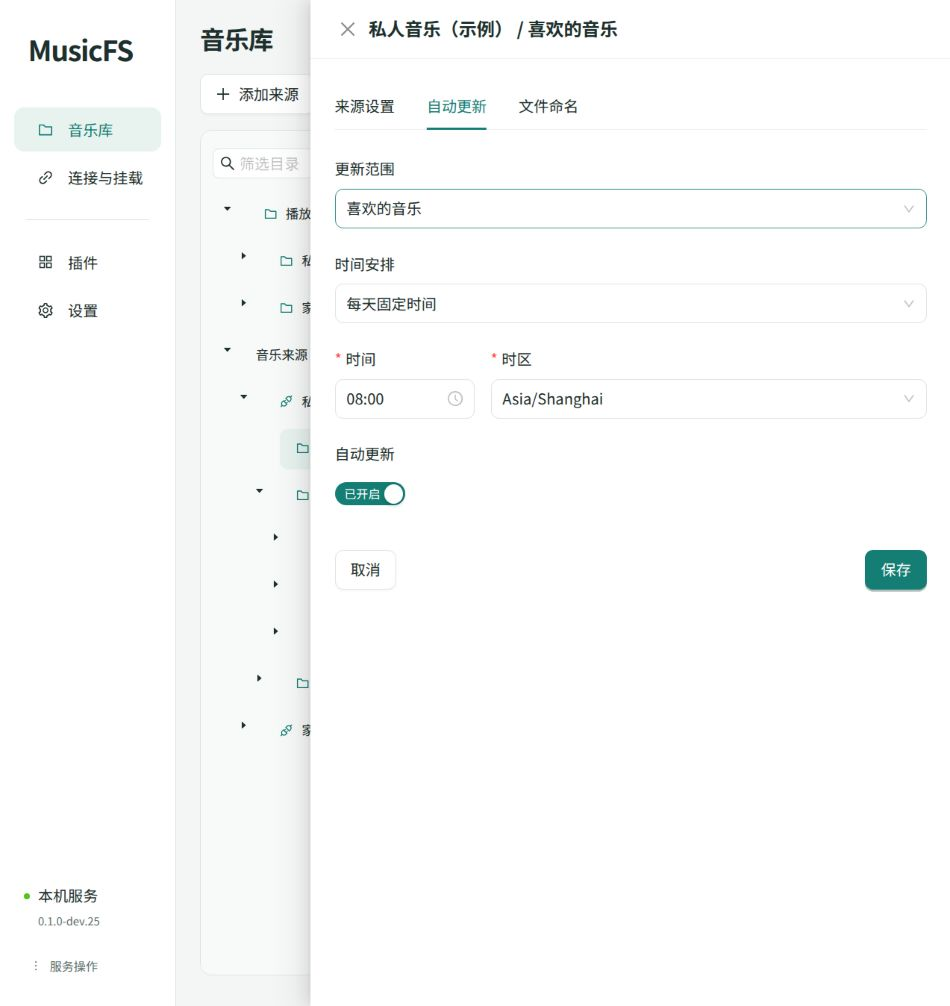
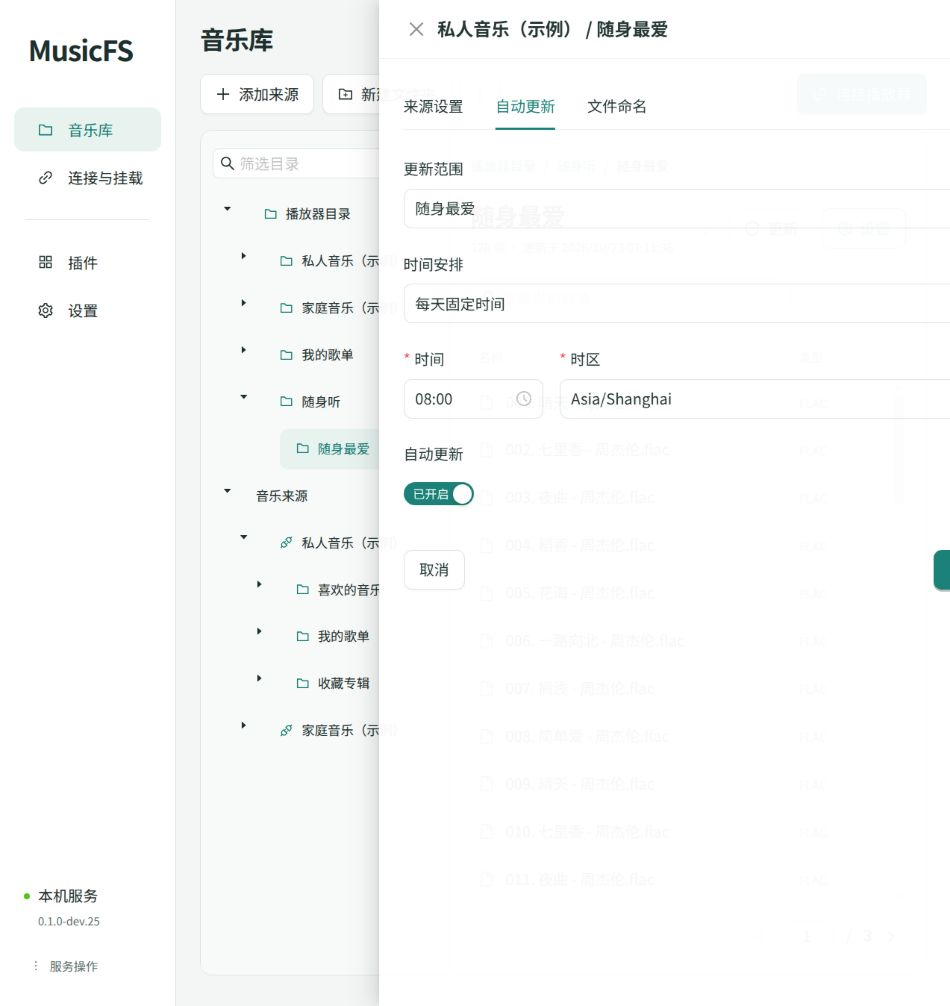
docs: document unified browsing and directory editing

diff --git a/docs/architecture/web-ui.md b/docs/architecture/web-ui.md
@@ -12,9 +12,9 @@ Design Read：保留视觉体系、重构信息架构；视觉变化 3、动效 
 
 | 方向 | 收益与代价 | 决定 |
 |---|---|---|
-| 保留两个页面，改善互相跳转 | 改动小，但浏览内容、管理来源和导出布局仍反复切换 | 不采用 |
+| 浏览与整理分成两个页面或模式 | 复用旧代码容易，但同一目录要切换界面才能编辑，操作与内容分离 | 不采用 |
 | 只保留播放器目录树，将来源设置挂在目录上 | 表面最少，但无法管理未导出的来源，也容易混淆移除入口与删除账号 | 不采用 |
-| 一个工作区，树中区分来源与播放器目录 | 一处浏览与配置，保留自定义导出布局和全部来源的独立身份 | 采用 |
+| 同一棵树随时浏览和编辑 | 目录直接改名、拖动和移除，右侧持续显示内容；来源与导出布局仍各有身份 | 采用 |
 
 参考 [VS Code](https://code.visualstudio.com/docs/editing/getting-started/userinterface) 的左侧资源树与主内容分工、[DBeaver](https://github.com/dbeaver/dbeaver/wiki/database-navigator) 的连接/子对象层级，以及 [Nextcloud](https://docs.nextcloud.com/server/stable/user_manual/en/files/access_webgui.html) 的内容列表与详情侧栏。借鉴其交互分工，不复制命令面板、多编辑器、版本历史等与 MusicFS 当前任务无关的能力。
 
@@ -34,12 +34,14 @@ flowchart LR
   H --> I[音乐库：树定位 / 主区浏览]
   I --> J[挂载到电脑]
   I --> K[复制 WebDAV 连接]
-  I -. 可选 .-> L[整理目录并保存]
+  I --> L[原位改名 / 移动 / 添加内容]
+  L --> M[继续浏览并保存目录]
+  M --> I
 ```
 
 | 页面 | 默认呈现 | 按需操作 |
 |---|---|---|
-| 音乐库 | 来源与播放器目录树、当前目录文件 | 上下文设置侧栏、登录、更新、整理目录 |
+| 音乐库 | 来源与播放器目录树、当前目录文件 | 原位目录编辑、批量添加、上下文设置、登录与更新 |
 | 连接与挂载 | 桌面默认挂载，Worker 默认 WebDAV | 远程挂载、缓存、Windows 原生映射 |
 | 插件 | 名称、版本、添加来源 | 更新、移除、技术信息 |
 | 设置 | 登录账号；桌面另含启动、自动挂载与局域网 | 修改密码、两种启动的页面行为 |
@@ -48,7 +50,9 @@ flowchart LR
 
 树中“播放器目录”对应对外路径，“音乐来源”对应完整来源内容。来源不在导出布局中也可浏览；展开只读取当前层，歌曲留在主列表，不把数千文件塞进树。树与主区使用同一 Query key；普通浏览不逐入口查询统计，也不读取音频属性。URL 与浏览器历史保存当前位置，前进、后退和重载可回到目录；旧 `?page=sources` 仍进入音乐库。
 
-默认布局可直接浏览。整理在同一入口切换为左侧目录树、右侧内容选择，窄屏使用两栏切换；批量添加、拖动、原位改名、撤销和统一保存保留。未保存草稿在页面切换时保留；保存后才改变对外目录，并回到新布局根目录。完整名称和顺序由后台提供，主列表每页50项；名称筛选只处理当前目录，不发送额外请求。
+浏览和整理使用同一棵树及同一个主列表，不设整理页面或编辑模式。新建后在树上输入名称；树与主列表共用目录菜单，提供改名、移动、排序和移除。来源根目录的主列表可直接多选入口，添加时只选择目标文件夹；单个来源入口也可直接添加。来源的内部目录和歌曲保持只读，不伪装成可编辑导出节点。
+
+有修改时显示保存、撤销、重做和放弃操作；未保存草稿在主页面切换时保留，保存后才改变播放器目录。保存保持当前浏览位置，移除当前节点则回到上级。窄屏将同一棵树放入抽屉，新建和改名时直接展示对应输入，不再切换两种整理面板。主列表每页50项；名称筛选只处理当前目录，不发送额外请求。
 
 来源/目录“设置”共用一个侧栏，页签为来源设置、自动更新和文件命名。字段和预览内容与外层呈现分离；同一份规则表单也用于设置页。侧栏不遮罩整个工作区，选择另一目录时关闭旧上下文；新增来源和扫码登录保留聚焦窗口，移除来源只保留一次确认。命名未变化的条目只显示一次，缺字段以预览说明呈现，不额外加警告块。
 
@@ -58,7 +62,7 @@ flowchart LR
 
 Windows 挂载可留空位置，复用既有自动盘符能力；其他系统填写挂载目录。每个挂载项直接显示自动挂载开关，手动卸载只影响本次。低频操作放入更多菜单，缓存统计与设置使用独立弹窗。局域网集中在设置中，Windows 原生映射保留在 WebDAV 连接下。
 
-## 目录整理
+## 同一工作区中的目录草稿
 
 ```mermaid
 flowchart LR
@@ -69,22 +73,28 @@ flowchart LR
   E --> C
   C --> F[撤销 / 重做]
   F --> C
+  C --> V[主区继续浏览当前内容]
   C -->|保存与修订检查| G[一次发布新目录]
   G --> H[播放器 / WebDAV / 挂载]
 ```
 
-`GET /api/layout/default` 返回当前自动目录的可编辑副本，不保存布局。名称直接使用核心已生成的导出名称，因此同名消歧和可移植路径不由前端重写；每个入口仍有独立节点身份。只读取来源的内容入口，不递归读取歌曲或音频信息。尚无快照时复用既有持久刷新机制。
+`GET /api/layout/default` 返回当前自动目录的可编辑副本，不保存布局。名称直接使用核心已生成的导出名称，因此同名消歧和可移植路径不由前端重写；每个入口仍有独立节点身份，自动目录按来源及入口身份稳定生成，重新读取不会重新分配。只读取来源的内容入口，不递归读取歌曲或音频信息。尚无快照时复用既有持久刷新机制。
 
-树操作只改浏览器草稿。一次批量添加保留来源清单顺序，同一内容可出现在不同文件夹中。查找保留上级上下文，移动目标排除自身及下级。当前整理会话保留最近 50 步撤销记录；跨页面保留草稿，关闭页面不额外建立一份前端持久目录库。
+树操作只改浏览器草稿。一次批量添加保留来源清单顺序，同一内容可出现在不同文件夹中。查找保留上级上下文，移动目标排除自身及下级。当前工作区保留最近 50 步撤销记录；跨页面保留草稿，关闭页面不额外建立一份前端持久目录库。
+
+草稿导航使用节点身份，来源内容使用 `instanceId/sourceId/directoryRef`。虚拟文件夹直接列出草稿子项；来源别名先定位入口，再读取同一来源快照，因此未保存的改名、移动不依赖尚不存在的导出路径。嵌套浏览的面包屑随草稿重新定位，已发布路径由核心继续负责。
+
+来源分支与多个布局别名共用来源快照的 Query key；导航目标和面包屑由每个观察者的 `select` 生成，不把某个别名的位置写进共享数据。自动目录查询归入音乐库失效范围，来源更新后会刷新默认树；已有草稿不会被后台刷新替换。
 
 ## 模块和状态
 
 `src/web` 仅依赖浏览器库、公开插件 DTO 与管理合同，不导入核心或宿主。
 
 - `shell.tsx` 管浏览器会话、四个主入口、退出与跨页面布局草稿；`workspace-navigation.ts` 保留页面 URL 和浏览器前进后退。
-- `music-workspace.tsx` 组织音乐库与来源操作；`music-navigation.ts` 区分来源引用与导出路径、保存浏览位置、定义共用查询；`music-tree.tsx` 管展开和筛选，`music-browser.tsx` 管主列表与刷新。
+- `music-workspace.tsx` 装配树、主区和上下文操作；`music-navigation.ts` 管节点/来源定位、面包屑与浏览历史；`music-listing.ts` 解析草稿节点并共享来源查询，虚拟文件夹不发送目录请求。
+- `music-tree.tsx` 管展开、筛选及拖放；`music-browser.tsx` 管主列表、批量选择与刷新。两处复用同一份目录操作。
 - `music-inspector.tsx` 拥有设置侧栏；`source-editor.tsx`、`update-rule-editor.tsx`、`file-naming.tsx` 各管对应表单与数据。`authentication.tsx` 保留通用登录状态机。
-- `layout-editor.tsx` 管草稿、撤销/重做和保存；`layout-sources.tsx` 读取入口并批量选择；`layout-tree.tsx` 负责改名、拖动和显式移动；`layout-draft.ts` 保存纯树操作规则。
+- `use-library-layout.ts` 管草稿、撤销/重做和保存；`use-layout-actions.tsx` 共用编辑命令；`music-layout-controls.tsx` 只负责原位改名与目标选择；`layout-draft.ts` 保存纯树操作。原独立编辑页、第二棵编辑树和内容选择面板已移除。
 - `plugins.tsx` 管理安装后的列表和后台变更；`plugin-installer.tsx` 管理包选择、检查和提交。
 - `connection.tsx` 区分挂载与 DAV；`dav-connection.tsx` 管理读取凭据与播放器导入二维码；`mounts.tsx` 管理挂载；`cache-settings.tsx` 复用缓存表单和统计展示；网络与 HTTPS 保留各自模块。
 - `settings.tsx` 管理账号和桌面偏好；`phone-access.tsx` 展示已启用的局域网地址与一次性二维码。

diff --git a/docs/verification/music-workspace.md b/docs/verification/music-workspace.md
@@ -1,29 +1,31 @@
-# 音乐库树形工作区核对
+# 音乐库统一工作区核对
 
-2026-10-23，`0.1.0-dev.25` 源码预览。设计与取舍见[共用管理界面](../architecture/web-ui.md)。本轮不重打发行包，已发布的 dev.24 归档保留原样。
+2026-10-23，`0.1.0-dev.25` 源码预览。浏览与目录编辑使用同一棵树、同一个主列表；设计与模块分工见[共用管理界面](../architecture/web-ui.md)。已发布的 dev.24 归档保持原样。
 
 ## 内置浏览器
 
-WSL 本地服务 `http://127.0.0.1:8787/`，使用独立 SQLite 演示数据：两个明确标为示例的来源、入口与嵌套目录，以及128个演示文件。未使用真实音乐账号或读取音频。
+WSL 本地服务 `http://127.0.0.1:8787/`，使用独立 SQLite 演示数据：两个明确标为示例的来源、入口与嵌套目录，以及128个演示文件。使用实际管理接口和库视图，不连接真实音乐平台或读取音频。
 
 | 用户路径 | 结果 |
 |---|---|
-| 来源树 → 喜欢的音乐 | 在主区直接看到文件，不再转到另一页面；树中不展开歌曲 |
-| 歌曲搜索、返回、重载 | 名称筛选保留顺序；浏览器返回和重载保留选中目录 |
-| 来源/目录设置 | 同一侧栏切换来源设置、自动更新、文件命名；切换目录关闭旧上下文 |
-| 命名预览 | 正确使用当前目录，未变化名称不重复显示，不增加警告块 |
-| 新增来源 | 侧栏直接显示名称与插件配置，关闭可回到原目录 |
-| 目录整理 | 左树右内容；新建文件夹、原位改名和连续撤销通过，撤销回原值后保存按钮恢复禁用 |
-| 约390px小屏 | 目录抽屉可选中并自动关闭；设置页签和时间/时区表单可达，没有横向页面溢出 |
+| 来源树 → 喜欢的音乐 | 主区直接显示文件，歌曲不展开到树中 |
+| 来源根目录多选 → 添加 | 原列表勾选两项，通过目标文件夹选择添加到草稿；取消添加保留勾选 |
+| 未保存入口 → 浏览 → 改名 | 128个文件保持可见，标题随改名更新，无需先保存 |
+| 新建文件夹 → 移动入口 | 原位改名后用节点菜单移动，面包屑随目录变化，歌曲继续可见 |
+| 保存 → 重载 | 保持同一目录及其新位置，不返回根目录 |
+| 新建、改名、连续撤销与重做 | 两次撤销回到原布局，保存恢复禁用；重做和放弃修改正常 |
+| 来源/目录设置 | 同一侧栏提供来源设置、自动更新、文件命名；当前目录的范围正确 |
+| 约390px窄屏 | 新建时打开同一棵树并进入改名；关闭抽屉后可连续撤销，无横向页面溢出 |
 
-窄屏关闭目录抽屉时曾捕获树组件焦点事件访问已清空引用。移除外层提前卸载条件，交由 Drawer 的 `destroyOnHidden` 管理退出；重走同一有界路径，未出现新控制台错误。未增加延时或捕获异常掩盖问题。临时视口设置已恢复，内置浏览器保留正常窗口预览。
+改名的 Enter 与失焦原先可能重复提交，现合并为一次结束操作。输入框聚焦事件不再冒泡到尚在挂载的树；窄屏新建、改名、关闭和连续撤销重走后没有新增控制台错误。树抽屉仍由 Drawer 管理卸载。临时视口已恢复，预览停留在正常工作区。
 
-截图：[工作区](images/music-workspace-desktop.jpg)、[上下文设置](images/music-workspace-inspector.jpg)、[小屏表单](images/music-workspace-mobile.jpg)。
+截图：[工作区](images/music-workspace-desktop.jpg)、[上下文设置](images/music-workspace-inspector.jpg)、[窄屏原位编辑](images/music-workspace-mobile.jpg)。
 
 ## 离线与构建
 
-- `library.test.ts`、`layout-draft.test.ts` 共28项通过；新增用例覆盖导出布局为空时仍能按来源浏览、嵌套引用、复用同一快照及零音频属性调用。
-- `management.test.ts` 中受影响的 HTTP 安装/实例/布局/DAV 旅程1项通过，新增来源目录入口和文件清单断言。
-- 三套 TypeScript、正式 WebUI 构建与模块边界检查通过，296模块、1238依赖无违规。
+- `library.test.ts`、`layout-draft.test.ts`、`music-workspace.test.ts` 共32项通过，259个断言。
+- 新增回归覆盖自动目录身份稳定、草稿分组无需目录请求、嵌套内容在改名和移动后仍按同一来源引用定位、来源与别名共享快照而分别生成面包屑、缺失入口不会误读账号根目录。
+- 三套 TypeScript、正式 WebUI 构建与模块边界检查通过；299模块、1260依赖无违规。
+- 受影响的 HTTP 来源浏览旅程已在本版前一提交验证，接口合同未在此次调整中改变。
 
-本轮只验证相关来源浏览接口和实际页面旅程；插件协议、读取与挂载机制未改动，不重复平台、Windows虚拟机、Cloudflare或压力测试。
+本轮验证集中在目录草稿、来源查询与实际页面操作，没有重复平台、Windows虚拟机、Cloudflare或压力测试。

diff --git a/docs/engineering-lessons.md b/docs/engineering-lessons.md
@@ -11,7 +11,7 @@
 - **资料存在、标签写入与播放器展示分开。** 来源缺失字段不猜测，已有歌词时间轴、译文和罗马音保留；不为补标签转码或跨平台搜配。成功内嵌不证明播放器会显示多位歌手或逐行歌词，兼容结论须对应实际字段和消费者。
 - **凭据就绪与资料齐全分开。** 有效授权不应因昵称等补充资料暂时失败而卡在二维码过期状态；后续需要资料时再补齐。SDK 能轮换凭据，也不代表宿主已经保存轮换结果。
 - **用户模板属于展示策略。** 插件可选提供命名事实，模板和同名分配共用于预览与实际路径；策略不进入内容配置或音频身份。同名身份也要脱离整歌单位置，否则只去掉可见序号仍会在无关插入时改名。
-- **合并界面入口不合并领域身份。** 来源引用与播放器路径可以在同一树形工作区呈现，但未导出的来源仍须可浏览，移除入口与删除来源仍是不同操作。共用已发布视图和查询缓存，不为新界面复制快照、命名或刷新算法。
+- **合并界面入口不合并领域身份。** 来源引用与播放器路径可以在同一树形工作区呈现，但未导出的来源仍须可浏览，移除入口与删除来源仍是不同操作。草稿按稳定节点身份定位内容，未保存的改名、移动不依赖未发布路径。共用已发布视图和查询缓存，导航上下文由观察者生成，不写入共享快照。
 
 ## 性能：减少必要路径上的工作
 
@@ -58,6 +58,6 @@
 - **环境故障不直接修进产品。** 回环权限、VM 可达性与产品行为分开判断。仅使用已授权环境；禁止宿主操作时不跨越边界，也不因测试环境暂不可达而无限扩大网络排查。
 - **远程命令与图形输入分别核实。** SSH 成功、helper 就绪、系统能发现图标，不等于输入桌面可用或菜单动作已完成。图形探针按控件类型和所属区域定位；环境限制时保留已完成的证据，必要时用一次实际操作补齐，不持续扩充测试框架。
 - **工具返回句柄不等于执行完成。** 依赖文件传输、构建或服务启动的后续操作，应先等待对应会话结束或取得明确就绪结果。
-- **浮层关闭与子组件卸载由同一方负责。** 使用组件库的退出动画和焦点恢复时，不在外层关闭状态切换的一刻再提前卸载内部控件；重复管理生命周期可能把迟到的焦点事件发给已清空的引用。
+- **浮层关闭与子组件卸载由同一方负责。** 使用组件库的退出动画和焦点恢复时，不在外层关闭状态切换的一刻再提前卸载内部控件；重复管理生命周期可能把迟到的焦点事件发给已清空的引用。树内输入控件的焦点和键盘事件由控件自身处理；Enter 与失焦共同结束一次编辑时，只提交一次。
 - **发行围绕一致输入。** 源码、页面、插件和二进制身份需要匹配，按版本存放产物；目标系统证据对应实际被测构建。相邻小改动集中打包，纯文档整理不要求重建历史发行物。
 - **每类事实只维护一个主入口。** 需求写用户结果，术语只写定义，架构写现行合同，计划写决定与重开条件，验证写有范围的证据，发行页写产物。旧结论被替代时重写当前说明，历史回到验证记录或 Git，不反复追加相互矛盾的“当前状态”。

diff --git a/docs/user-guide.md b/docs/user-guide.md
@@ -33,14 +33,14 @@
 
 主列表可按名称搜索，结果保留原顺序。目录导航和浏览器前进、后退都可返回之前的位置，重新载入页面也会保留当前目录。
 
-想换一种排列方式，点击「整理目录」：
+想换一种排列方式，直接在这个工作区操作：
 
-- 左侧管理播放器目录，右侧选择来源、勾选歌单等内容，选好「添加到」的位置，一次加入多项。窄屏在「播放器目录」和「添加内容」之间切换。
-- 在目录树中新建文件夹，直接输入名称；双击名称或从节点菜单重命名。
-- 拖动排序或移入文件夹，也可从节点菜单选择「移动到」「上移」「下移」。
-- 误操作可撤销、重做。满意后点击「保存目录」，让播放器看到新布局。
+- 点击「新建文件夹」，在树上输入名称。双击目录名称，或从目录的更多菜单重命名。
+- 浏览「音乐来源」时，勾选喜欢的音乐、歌单等入口，点击「添加到」，选择播放器目录中的位置。打开单个入口后，也可直接添加。
+- 在「播放器目录」中拖动排序或移入文件夹，也可用更多菜单的「移动到」「上移」「下移」。「移除」只拿掉这个目录入口。
+- 修改后出现保存栏，可撤销、重做或放弃。点击「保存目录」，让播放器看到新布局；保存前后都能继续浏览当前音乐。
 
-现有目录会直接带入，无需重建。返回浏览或切换页面会保留未保存的修改。在右上角整理选项中选择「恢复按来源自动排列」并保存，可回到默认目录。
+切换页面会保留未保存的修改。在音乐库顶部的更多菜单中选择「恢复按来源自动排列」并保存，可回到默认目录。
 
 ## 在本地播放器中使用
 

diff --git a/docs/verification.md b/docs/verification.md
@@ -4,7 +4,7 @@
 
 ## 当前事实
 
-当前源码为 dev.25 音乐库树形工作区：合并来源与目录入口，新增独立于导出布局的来源浏览，设置合入上下文侧栏。29项定向离线用例、类型/构建/依赖边界及内置浏览器路径核对通过，见[工作区记录](verification/music-workspace.md)。本轮未重打发行包；现有最新归档 dev.24 修正规则重复范围与编辑体验，见[发行页](release.md)。
+当前源码为 dev.25 音乐库树形工作区：浏览与编辑合并到同一棵树和主列表，来源内容可批量添加，未保存的改名和移动仍能浏览。32项定向离线用例、类型/构建/依赖边界及内置浏览器路径核对通过，见[工作区记录](verification/music-workspace.md)。本轮未重打发行包；现有最新归档 dev.24 修正规则重复范围与编辑体验，见[发行页](release.md)。
 
 dev.23完成自动更新规则与自定义命名模板：SQLite/D1共用调度与展示语义，schema13迁移旧周期、schema14保存独立命名策略，API0.1.11为插件提供可选命名资料。受影响离线回归、三套类型、依赖方向及页面/Worker/插件构建通过；具体结果及范围见[本轮核对](verification/updates-and-naming.md)。Windows、离线Worker、源码与作者包已归档并通过身份/摘要核对，下载入口见[发行页](release.md)；没有新增真实平台或Windows运行证据。
 

diff --git a/README.md b/README.md
@@ -18,7 +18,7 @@ MusicFS 把不同音乐来源的歌单和歌曲整理成只读文件夹。你可
 1. **打开 MusicFS。** 下载并解压对应系统的完整桌面包，Windows 打开 `MusicFS.exe`，Linux 运行 `musicfs`，管理页面会在浏览器中打开。
 2. **添加音乐来源。** 在「音乐库」点击「添加来源」，按提示安装随包 `plugins/` 目录中的网易云音乐或 QQ 音乐 ZIP。
 3. **连接自己的账号。** 添加来源、选择音质，接着完成扫码登录。
-4. **看看自己的音乐。** 在「音乐库」左侧树选择来源或歌单，右侧直接浏览；想调整播放器中的排列，再点击「整理目录」。
+4. **看看自己的音乐。** 在「音乐库」左侧树选择来源或歌单，右侧直接浏览；新建、改名、移动目录也在这里完成。
 5. **接上播放器。** 在「连接与挂载」挂载到电脑，或复制 WebDAV 地址、用户名和密码。
 
 Windows 首次挂载时，可按页面提示安装 WinFsp；Linux 挂载需要 FUSE。
